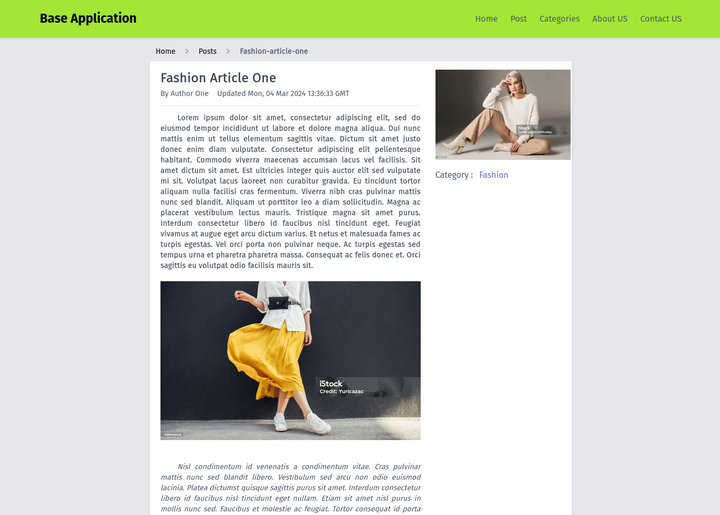
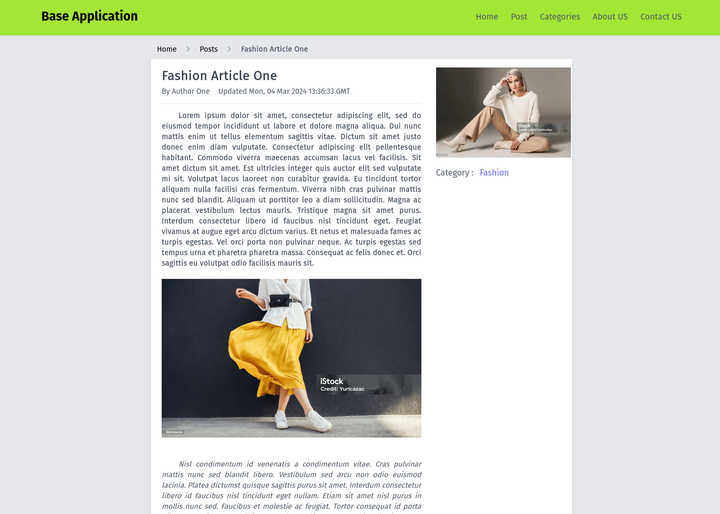
fixing breadcrumb

Changed region(s): [[0.2139, 0.1245, 0.7944, 0.9961], [0.0, 0.0, 1.0, 0.1868], [0.5806, 0.716, 0.6111, 0.7471]]

diff --git a/src/components/breadcrumb/Breadcrumb.tsx b/src/components/breadcrumb/Breadcrumb.tsx
@@ -9,11 +9,13 @@ export interface IBreadcrumb {
 
 
 const Breadcrumb = ({ capitalizeLinks }: IBreadcrumb) => {
-    const activeClasses = 'text-gray-600 font-bold'
+    const activeClasses = 'text-gray-600 font-bold capitalize'
     const listClasses = 'hover:underline mx-1 px-2'
 
     const paths = usePathname()
     const pathNames = (paths) ? paths.split('/').filter(path => path) : []
+
+    console.log(pathNames)
 
     return (
         <div>
@@ -28,7 +30,7 @@ const Breadcrumb = ({ capitalizeLinks }: IBreadcrumb) => {
                         return (
                             <React.Fragment key={index}>
                                 <li className={itemClasses} >
-                                    <Link href={href}>{itemLink}</Link>
+                                    <Link href={href}>{itemLink.replaceAll('-',' ')}</Link>
                                 </li>
                                 {pathNames.length !== index + 1 && <svg className="w-5 h-auto fill-current text-gray-400" xmlns="http://www.w3.org/2000/svg" viewBox="0 0 24 24"><path d="M0 0h24v24H0V0z" fill="none" /><path d="M10 6L8.59 7.41 13.17 12l-4.58 4.59L10 18l6-6-6-6z" /></svg>}
                             </React.Fragment>

diff --git a/src/components/posts/Post.mocks.ts b/src/components/posts/Post.mocks.ts
@@ -8,7 +8,7 @@ const base: IPost = {
   image: 'https://fakeimg.pl/400x400/?text=Post',
   user: 'User',
   category: 'Category',
-  updated_at: 'Fri March 1, 2024'
+  updated_at: '2024-03-04T06:09:46.000000Z'
 };
 
 export const mockPostProps = {
